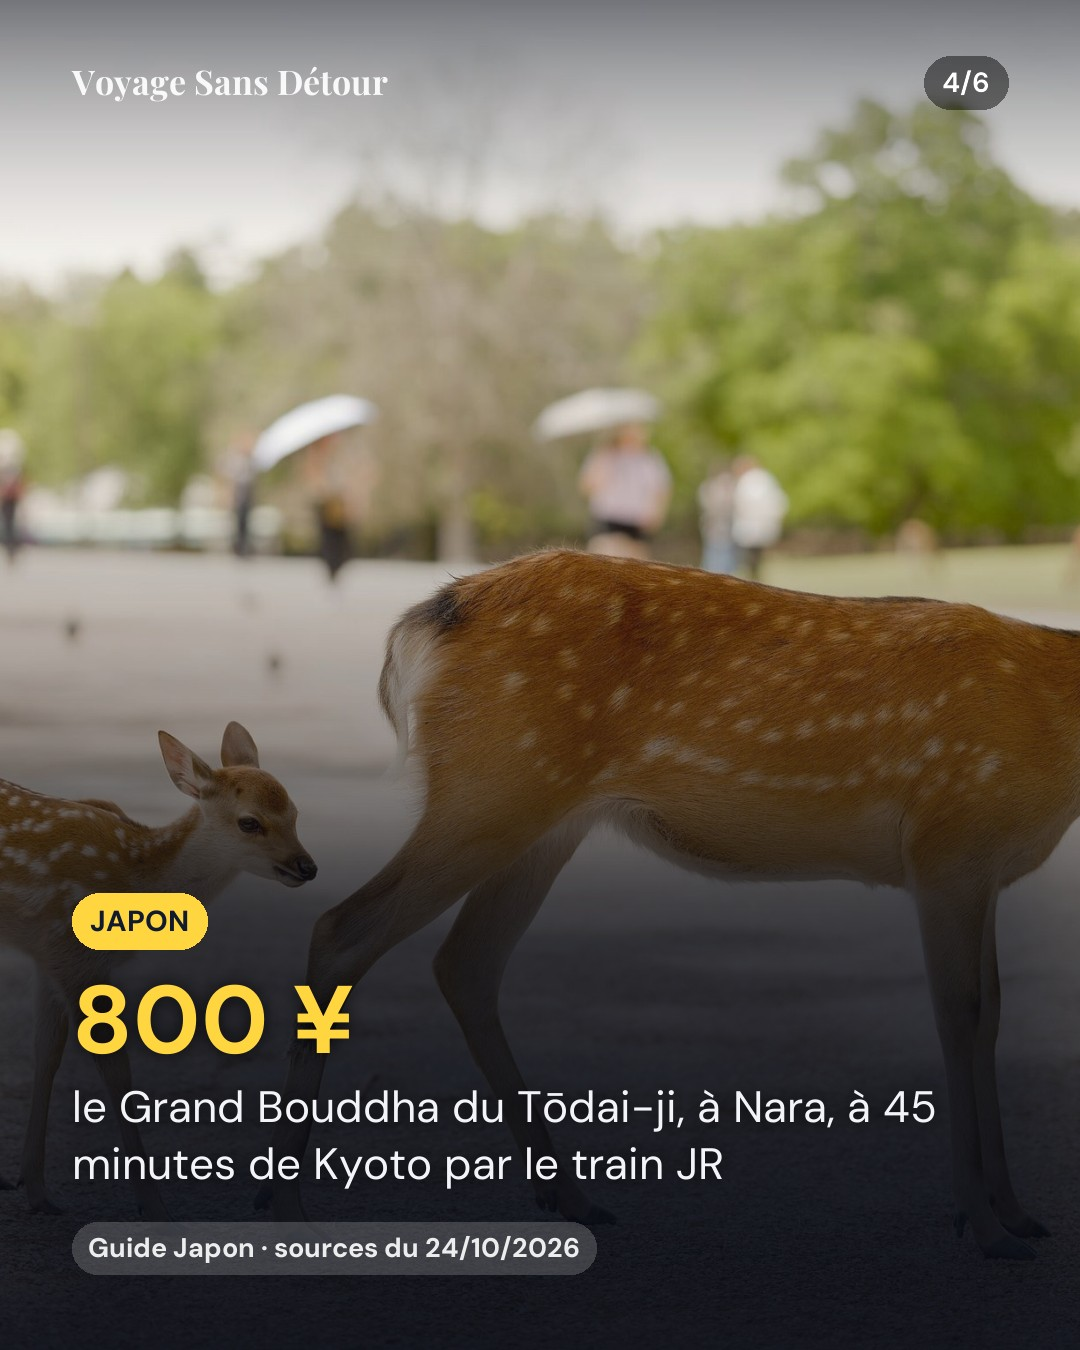
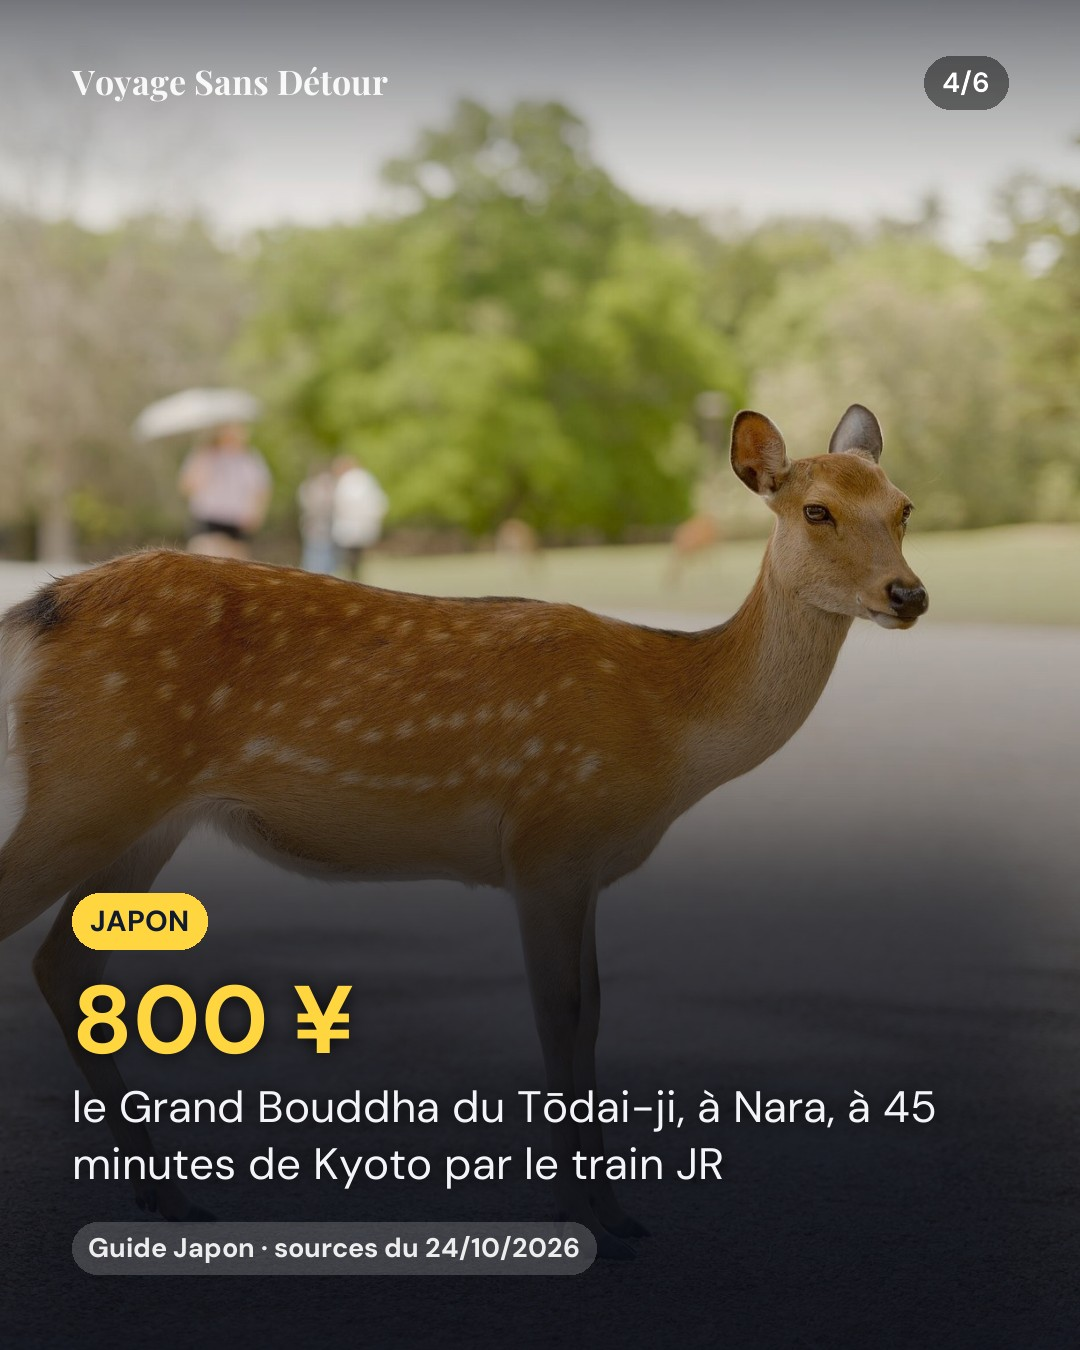
fix: générateur à l'arrêt, reel Japon budget sorti des retraits, biche de Nara recadrée (relecture contradictoire de la PR 49)
- cadence.json : "enabled": false sur tous les créneaux ; à rallumer avec la PR qui corrige le choix des photos
- index.json : ig-japon-budget-2-semaines-2026-11-15 et sa copie TikTok sortis de retirements (déjà dans Buffer, décision à prendre) ; constat et règle dans docs/chaine-autonome.md
- SITE_FOCUS : japon-nara-cerfs ; carrousel fb-japon-itineraire-2-semaines-2026-11-22-2 refait (plan 4), reçu du carrousel Thaïlande régénéré
- docs : motif retouched_image, mise à l'arrêt du générateur
- tests : cadence entièrement à l'arrêt, cadre de la biche

diff --git a/.github/vsd-production/test_auto_social.py b/.github/vsd-production/test_auto_social.py
@@ -263,6 +263,24 @@ class GeneratorTests(unittest.TestCase):
         self.assertIn("bio", carousel["caption"]["cta"])
         self.assertIn("fallbackBold", carousel["assets"])  # no empty box on a slide either
 
+    def test_a_cadence_with_every_slot_switched_off_stops_the_generator_without_an_error(self):
+        # 13/11/2026: the generator is stopped this way until its choice of photos is fixed; the rest of the daily run goes on.
+        slots = [{"weekday": "thursday", "time": "09:00", "kind": "carousel", "enabled": False}, {"weekday": "friday", "time": "18:00", "kind": "reel", "enabled": False}]
+        cadence = {"schemaVersion": 1, "timezone": "Europe/Paris", "channels": {
+            "instagram": {"weeklyLimit": 4, "minGapHours": 20, "slots": slots},
+            "facebook": {"weeklyLimit": 2, "minGapHours": 60, "slots": [{"weekday": "sunday", "time": "18:00", "kind": "carousel", "enabled": False}]}}}
+        f = self.fixture(cadence=cadence)
+        result = f.run(limit=20)
+        self.assertEqual((result["status"], result["created"], result["shortChannels"]), ("queue_covered", [], []))
+        self.assertEqual(result["coveredUntil"], {"instagram": None, "facebook": None})
+        self.assertEqual(list((f.root / "scenarios").glob("*.json")), [])
+
+    def test_the_doe_of_nara_keeps_her_head_on_a_slide(self):
+        # Audit of 13/11/2026: a centred 4:5 frame cut her at the neck (her muzzle ends at 86 % of a 2521 × 1600 photo).
+        size, focus = (2521, 1600), media_library.SITE_FOCUS["japon-nara-cerfs"]
+        left, _, right, _ = p.draw.cover_box(size, p.draw.SLIDE_SIZE, 1.0 + p.draw.ZOOM_RANGE / 2, tuple(focus))
+        self.assertTrue(left <= 0.45 * size[0] and 0.87 * size[0] <= right, (left, right))
+
     def test_a_covered_queue_creates_nothing_and_existing_posts_are_never_rewritten(self):
         f = self.fixture([guide(f"guide-{n}", title=f"Guide {n} : Kyoto") for n in range(14)])
         first = f.run(limit=30)

diff --git a/.github/vsd-production/media_library.py b/.github/vsd-production/media_library.py
@@ -49,7 +49,11 @@ OWN_FIGURES = frozenset({"train-alfa-220"})
 # The temple of Tulum stands right of the middle of a panorama: cut around the middle, the frame slid off it.
 # On the beach of Koh Samui a bather stands in the left third, cut by the edge of a centred frame: the sea, the
 # jet-skis and the hill are on the right.
-SITE_FOCUS = {"thailande-bangkok-grand-palais": [0.72, 0.7], "yucatan-tulum": [0.645, 0.5], "thailande-koh-samui": [0.72, 0.5]}
+# The doe of Nara stands in the right half, her head at 85 % of the width: a centred frame kept her body and cut her
+# neck (audit of 13/11/2026, on a reel and on a carousel). At 0.68 the 4:5 frame of a carousel holds her whole. The
+# 9:16 frame of a reel is narrower than she is long and slides: it shows her head for part of the plan only.
+SITE_FOCUS = {"thailande-bangkok-grand-palais": [0.72, 0.7], "yucatan-tulum": [0.645, 0.5], "thailande-koh-samui": [0.72, 0.5],
+              "japon-nara-cerfs": [0.68, 0.5]}
 
 
 def commons_title(source_page: str) -> str | None:

diff --git a/docs/chaine-autonome.md b/docs/chaine-autonome.md
@@ -47,10 +47,32 @@ guide publié ──► rendu (production.py, reel_intake.py)
   pas encore envoyés passent « en attente » dans le registre et ne partent plus. Un post déjà programmé
   dans Buffer se supprime dans Buffer. Le panneau ne lit que `batchId` ; l'entrée garde aussi les
   empreintes du lot, la date, le motif (`photos_of_another_place`, `too_little_content`,
-  `duplicate_media_on_channel`, `figure_no_longer_in_guide`, `guide_contradicts_post`) et, s'il est refait, `replacedBy`. Retirer aussi la copie TikTok
+  `duplicate_media_on_channel`, `figure_no_longer_in_guide`, `guide_contradicts_post`,
+  `retouched_image` : une image retouchée ou prolongée par génération, qui n'est plus la photo telle
+  qu'elle a été prise) et, s'il est refait, `replacedBy`. Retirer aussi la copie TikTok
   (`…-tiktok-v1`). Le générateur rend alors le créneau et le guide : le post refait prend
   l'identité suivie de `-2`. Les anciens garde-fous endormis du dépôt ne connaissent que le motif
   `duplicate_media_on_channel` : leurs jeux d'essai écartent les autres.
+- **Un lot déjà remis à Buffer ne s'inscrit dans `retirements` qu'une fois décidé de le supprimer.**
+  Il n'existe pas de retrait « pour la trace » : dès qu'un lot est dans `retirements`, le générateur
+  rend son créneau et son guide (un autre post est fabriqué pour la même heure, puis un second post
+  du même guide), `stale_lots.py` ne le relit plus contre son guide, le rapport le dit « retiré » et
+  le panneau, une fois capable de retirer dans Buffer, supprime le post programmé. Tant que la
+  suppression n'est pas décidée, le constat se note ici et le lot reste hors de `retirements`.
+  Cas du 13/11/2026 : `ig-japon-budget-2-semaines-2026-11-15` et sa copie TikTok, programmés dans
+  Buffer pour le 15/11 à 20:00 et 21:00 UTC. L'audit à l'image du 13/11 y relève le prix du train
+  Tokyo–Kyoto–Hiroshima posé sur le néon « DOTONBORI » d'Osaka, le prix du ramen sur le panneau de
+  la gare de Shin-Fuji, la biche de Nara cadrée sans tête, et un carton final qui dit « lien en
+  bio ». La décision de le laisser partir ou de le supprimer dans Buffer revient à Mathis ; le lot
+  n'est ni retiré ni refait.
+- **Mettre le générateur à l'arrêt** : `"enabled": false` sur chaque créneau de `cadence.json`.
+  `auto_social.py` ne fabrique alors plus aucun post ; le reste du passage quotidien continue
+  (relecture des lots contre leurs guides, rendu des scénarios déjà en file, stock, épingles). Les
+  créneaux se vident au fil des jours et un lot retiré n'est plus remplacé : le rapport lève « File
+  … presque vide » dès que le dernier post d'un réseau est à moins de 14 jours, puis « File … vide ».
+  Le passage quotidien, lui, répond `queue_covered` sans avertissement. À l'arrêt depuis le
+  13/11/2026 (derniers posts en file : Facebook 26/11, Instagram et TikTok 02/12), jusqu'à la PR qui
+  corrige le choix des photos (trajets, second tour, faits localisés sans nom propre).
 - **Un guide corrigé retire ses posts en file** (depuis le 12/11/2026) : `vsd-render-content.yml`
   lance `stale_lots.py --retire` avant de planifier. Chaque lot à venir est relu contre la page de son
   guide publiée ce jour-là ; celui qui cite un chiffre que la page ne donne plus est retiré tout seul,
